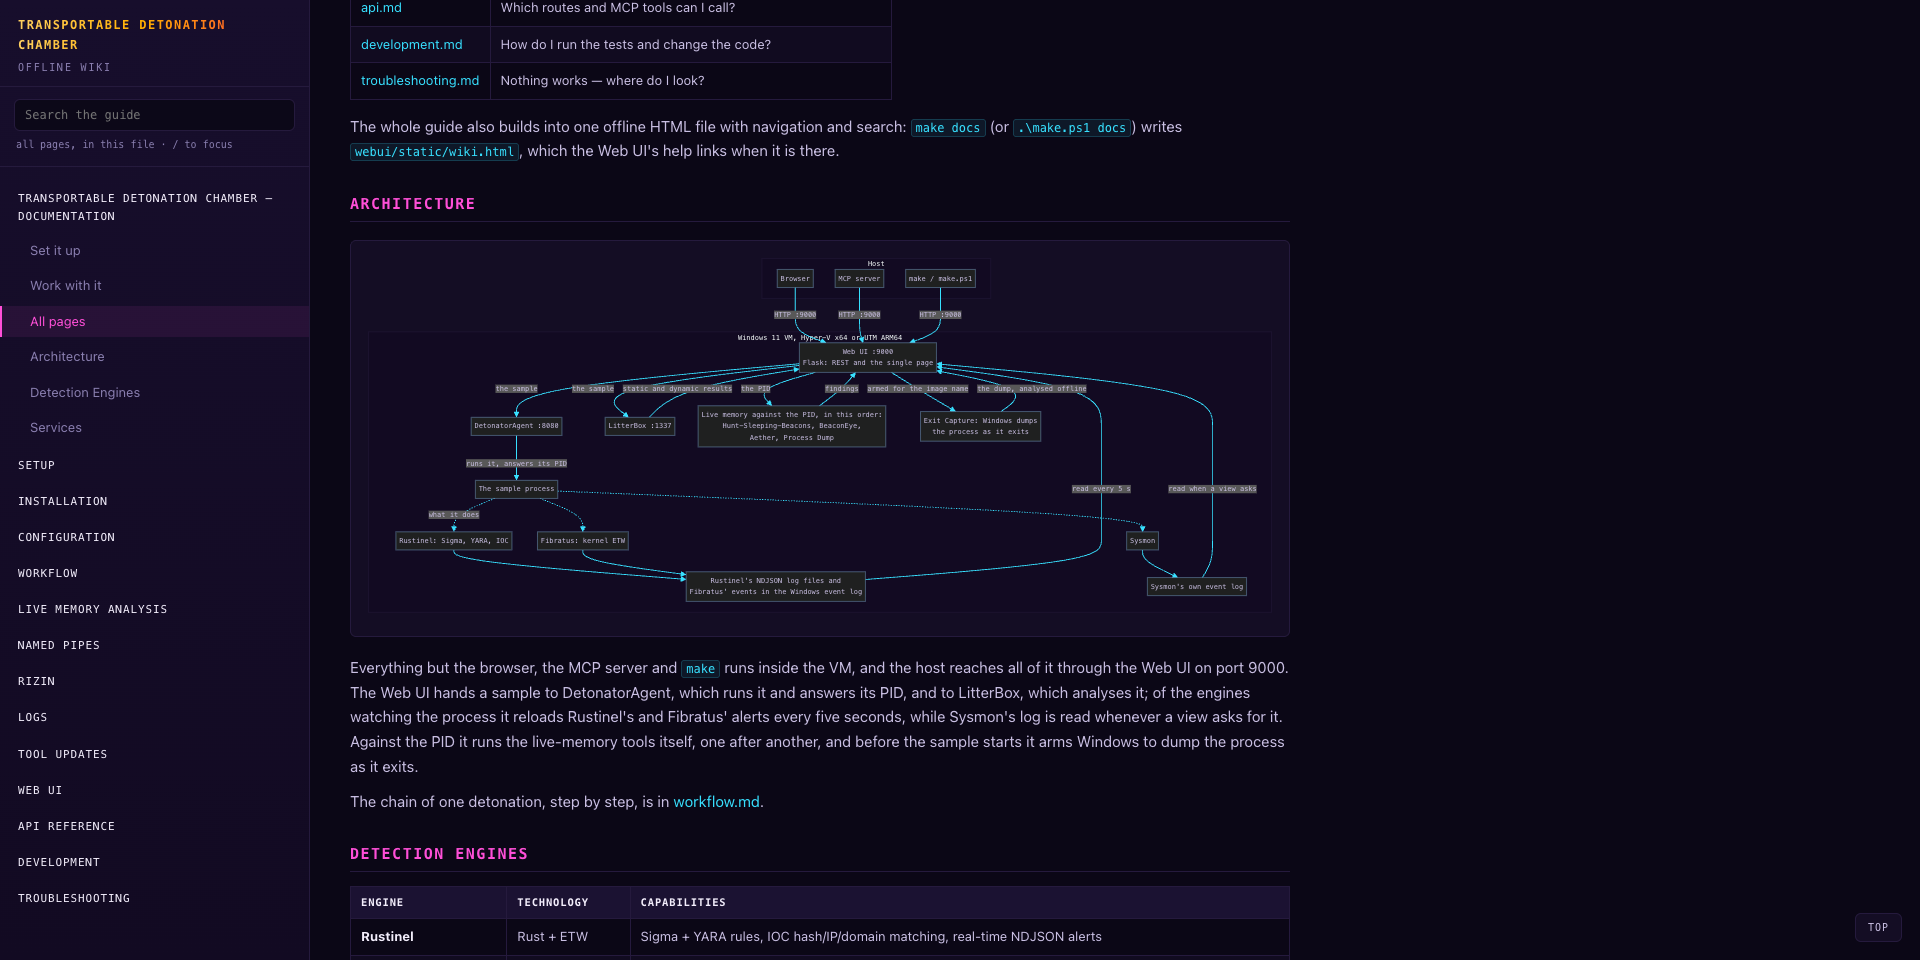
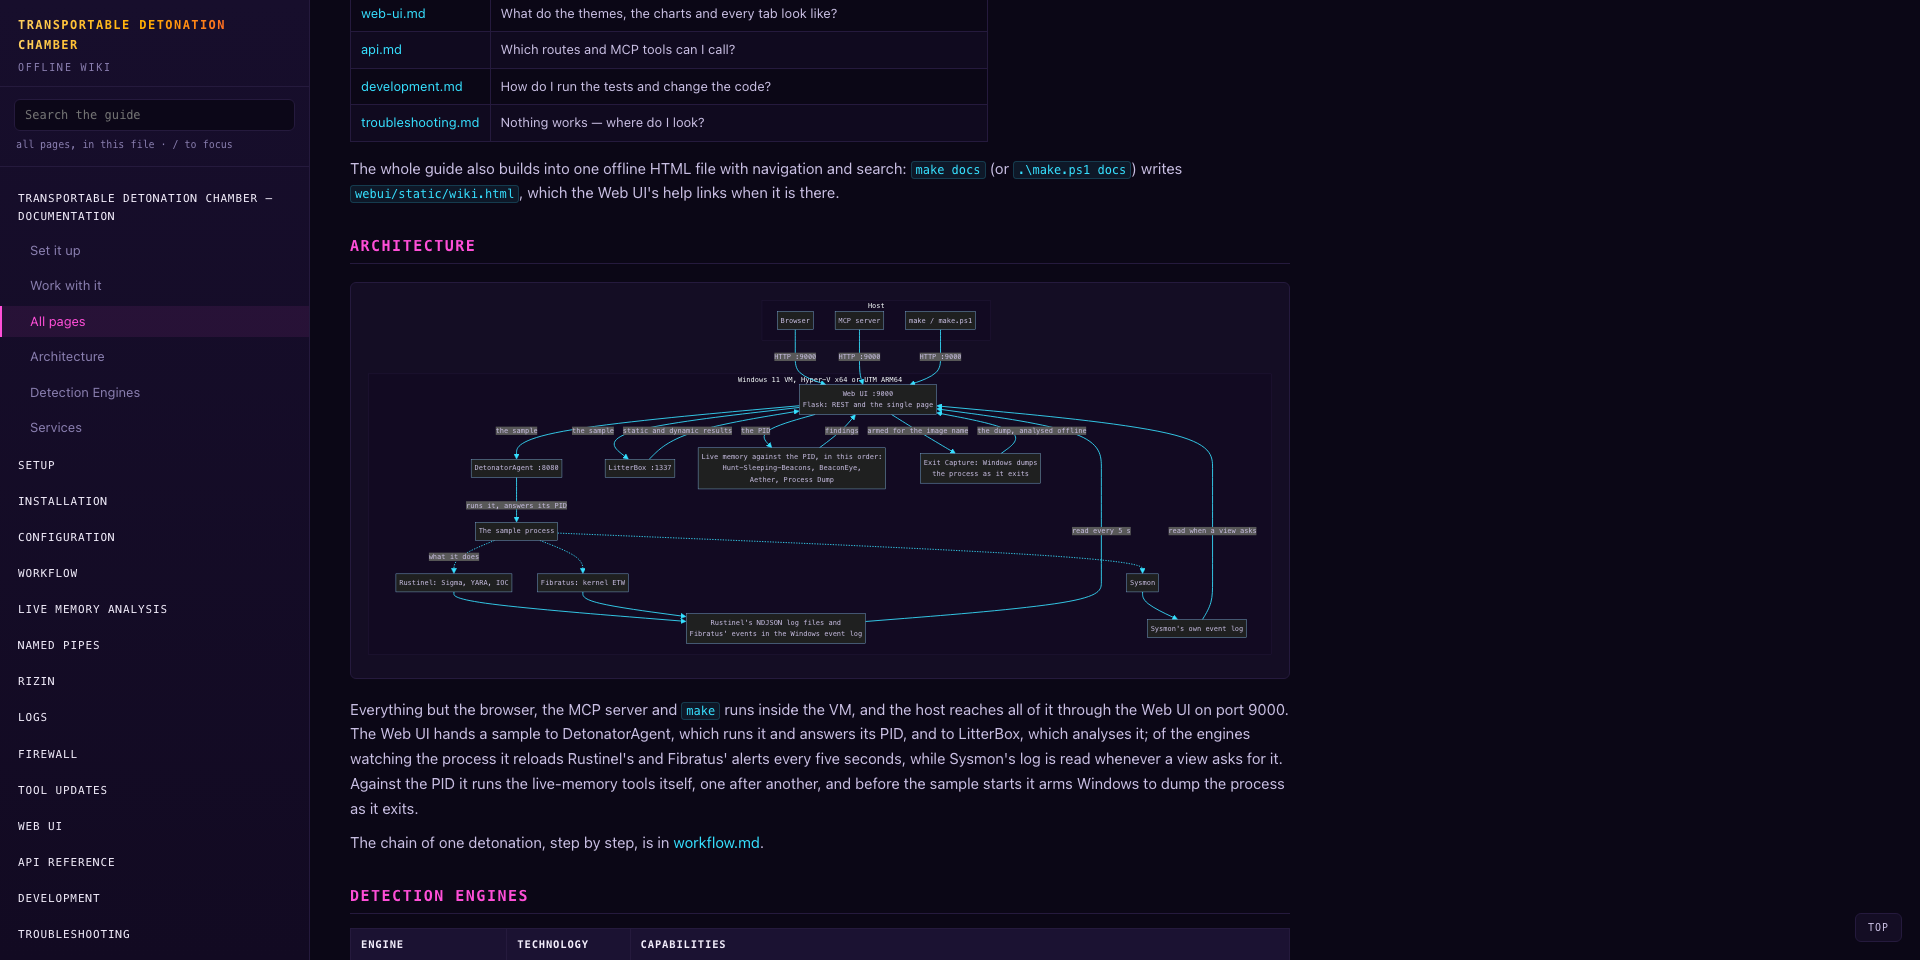
docs(firewall): show the tab, its list view and the cut; refresh the wiki screenshot

diff --git a/docs/firewall.md b/docs/firewall.md
@@ -18,6 +18,26 @@ blocked, up to about ten seconds after the connection.
 Everything in it is text from the sample and is shown as text: URLs and host
 names are defanged (`hxxp://`, `example[.]com`), never a link.
 
+![The FIREWALL tab in the MAP view with nothing isolated: 12 connections over the last hour, a process tree of three svchost.exe instances with ALLOW switches and direct-ip tags, the world map with two arcs from the CHAMBER device to two destinations, and the summary with the CUT THE NETWORK card](../static/firewall_tab.png)
+
+> **The tab as it opens, in the MAP view.** The head reads 12 connections with
+> LIVE on, ASK at DETONATION, the ISOLATED button and the range buttons
+> 15M, 1H, 4H, 24H, 7D and ALL, 1H the active one. On the left, PROCESSES: three
+> `svchost.exe` instances (PIDs 4052, 3964 and 3008), each with a green ALLOW
+> switch and a `direct-ip` tag, and under them the endpoints they talk to
+> (`48.209.133.15` US :443/TCP with FW 1, `146.75.118.172` US
+> :80/TCP, `72.145.35.97` US :443/TCP), plus a collapsed LOCAL group of 3. In
+> the middle, DESTINATIONS under the MAP, LIST, ASN and DECISIONS switch: two
+> orange arcs rise from the framed CHAMBER device in the strip under the map
+> to `72.145.35.97` and `48.209.133.15`; the strip's left reads
+> LOCATION NOT DETERMINED. Under the map the tab says that the six connections to
+> local addresses are in the tree, not on the map. On the
+> right, the SUMMARY: 12 connections (22 single ones), BLOCKED 0, OPEN DECISIONS
+> 0, SAMPLES 0 secured, the top processes, endpoints and countries, and the note
+> that Sysmon has no byte counts. Below it the NETWORK CUT card with the skull
+> button, and at the bottom HUNT FURTHER with three ready LOGS searches and
+> SECURED SAMPLES, 0 so far.
+
 A connection here is a flow: one process (image and PID) to one endpoint
 (protocol, address, port), with its count and its first and last packet. The
 firewall log has no process, so its numbers (`FW (endpoint)`, the `dropped`
@@ -49,6 +69,20 @@ Rustinel, git) are a group of their own and are never blocked automatically.
 | `dropped` | info | the firewall dropped packets to this endpoint |
 
 The colour of a row and of an arc is its most severe tag.
+
+The **LIST** view of DESTINATIONS is the same flows as a table, one row per
+process and endpoint. Its columns are PROCESS, PID, DESTINATION, ADDRESS, PORT,
+PROTO, CC, AS, TAGS, CONN., FW (ENDPOINT) and STATE.
+
+![The FIREWALL tab in the LIST view with nothing isolated: 14 connections as a table of svchost.exe TCP rows to Microsoft and Fastly addresses on ports 443 and 80 tagged direct-ip and allowed, and UDP rows to multicast addresses and to hackepeter-2 on ports 53 and 67](../static/firewall_list.png)
+
+> **The same tab in the LIST view,** 14 connections, nothing isolated. The TCP
+> rows are `svchost.exe` to `MICROSOFT-CORP-MSN-AS-BLOCK` and to
+> `FASTLY - Fastly, Inc.` on ports 443 and 80, each tagged `direct-ip`, in
+> state ALLOW, with firewall counts such as `1 / 0` under FW (ENDPOINT). Below
+> them the UDP rows: `239.255.255.250:1900`, `224.0.0.252:5355`,
+> `ff02::1:3:5355` and `hackepeter-2` (192.168.64.1) on ports 53 and 67.
+> SECURED SAMPLES at the bottom reads "None yet."
 
 **Blocking.** ALLOW / DENY writes a rule named `TDC-FW-...`: for one process to
 one endpoint, for one process everywhere, or (a separate switch) for an
@@ -181,6 +215,24 @@ or `NotConfigured`, otherwise `Allow`; a recorded `Block` it names and leaves to
 the analyst), switches on again the rules recorded in
 `allow_disabled` (it only reads the file) and removes every `TDC-FW-*` rule,
 nothing else.
+
+![The FIREWALL tab with the network cut: a red band across the top with the time of the cut and the warning that TDC cannot secure a sample, CUT SECURING in red on the header switch and on the skull card, and 17 connections in the list, one tagged dga and one tagged dropped, while the summary reads BLOCKED 0](../static/firewall_cut.png)
+
+> **The panic cut in force** (LIST view, 17 connections). The red band says
+> when it started (2026-11-18 11:20:13), that one outbound Block rule for every
+> program stands and was read back, that a Block rule beats every Allow rule and
+> that loopback stays open, that **TDC cannot secure a sample in this state**
+> because no fetch gets through a catch-all Block rule, and that Windows' own
+> outbound Allow rules are being switched off in the background, the default
+> set to Block, and then the rule goes. The header switch and the skull card
+> both read `CUT · SECURING…` in red: one state, shown in two places. The
+> table shows the tags `direct-ip`, one `dga` row (a defanged
+> `a2-16-168-38`, `deploy`, `static`, `akamai` name, AKAMAI-ASN1, CC NL) and one `dropped`
+> row (`hackepeter-2` 192.168.64.1:53 over UDP, 31 connections).
+>
+> **BLOCKED reads 0 here, and that is not a sign that nothing is blocked.**
+> BLOCKED counts TDC's per-endpoint and per-process rules; the cut is neither,
+> it is one catch-all rule, so the egress is shut while the counter stays at 0.
 
 **Hunting further.** HUNT FURTHER lists ready LOGS searches for the selection,
 each one click away; `in LOGS ▸` on a row, a point of the map or a toast opens

diff --git a/docs/web-ui.md b/docs/web-ui.md
@@ -554,4 +554,35 @@ programs that mimic implant behaviour).
 > Create of `wevtutil.exe`); all fields of the event are shown, suspicious
 > values are highlighted.
 
+---
+
+### Firewall
+
+![FIREWALL tab in the MAP view: process tree, destinations on the world map, summary and the CUT THE NETWORK card](../static/firewall_tab.png)
+
+> **FIREWALL tab:** 12 connections over the last hour, nothing isolated. The
+> tree on the left holds three `svchost.exe` instances (PIDs 4052, 3964 and
+> 3008) with their ALLOW switches, `direct-ip` tags and endpoints; the map shows
+> two arcs from the framed CHAMBER device to `72.145.35.97` and
+> `48.209.133.15`; the summary counts 12 connections (22 single ones), BLOCKED
+> 0, and the CUT THE NETWORK card sits under it, with HUNT FURTHER and SECURED
+> SAMPLES at the bottom.
+
+![FIREWALL tab in the LIST view: 14 connections as a table with PROCESS, PID, DESTINATION, ADDRESS, PORT, PROTO, CC, AS, TAGS, CONN., FW (ENDPOINT) and STATE](../static/firewall_list.png)
+
+> **LIST view:** the same flows as a table, 14 connections: `svchost.exe` TCP
+> rows to Microsoft and Fastly address blocks on 443 and 80, tagged
+> `direct-ip` and in state ALLOW, and UDP rows to multicast addresses and to
+> `hackepeter-2` on 53 and 67.
+
+![FIREWALL tab with the network cut: a red band, CUT SECURING on the header switch and the skull card, 17 connections](../static/firewall_cut.png)
+
+> **The panic cut in force:** the red band says one outbound Block rule for
+> every program stands and TDC cannot secure a sample in this state; the header
+> switch and the skull card both read `CUT · SECURING…`. The summary shows
+> BLOCKED 0 all the same, because that counter holds TDC's per-endpoint and
+> per-process rules and the cut is one catch-all rule instead. What each switch
+> writes, what the cut stages mean and how to leave are in
+> [Firewall](firewall.md).
+
 **Next:** [API](api.md)
